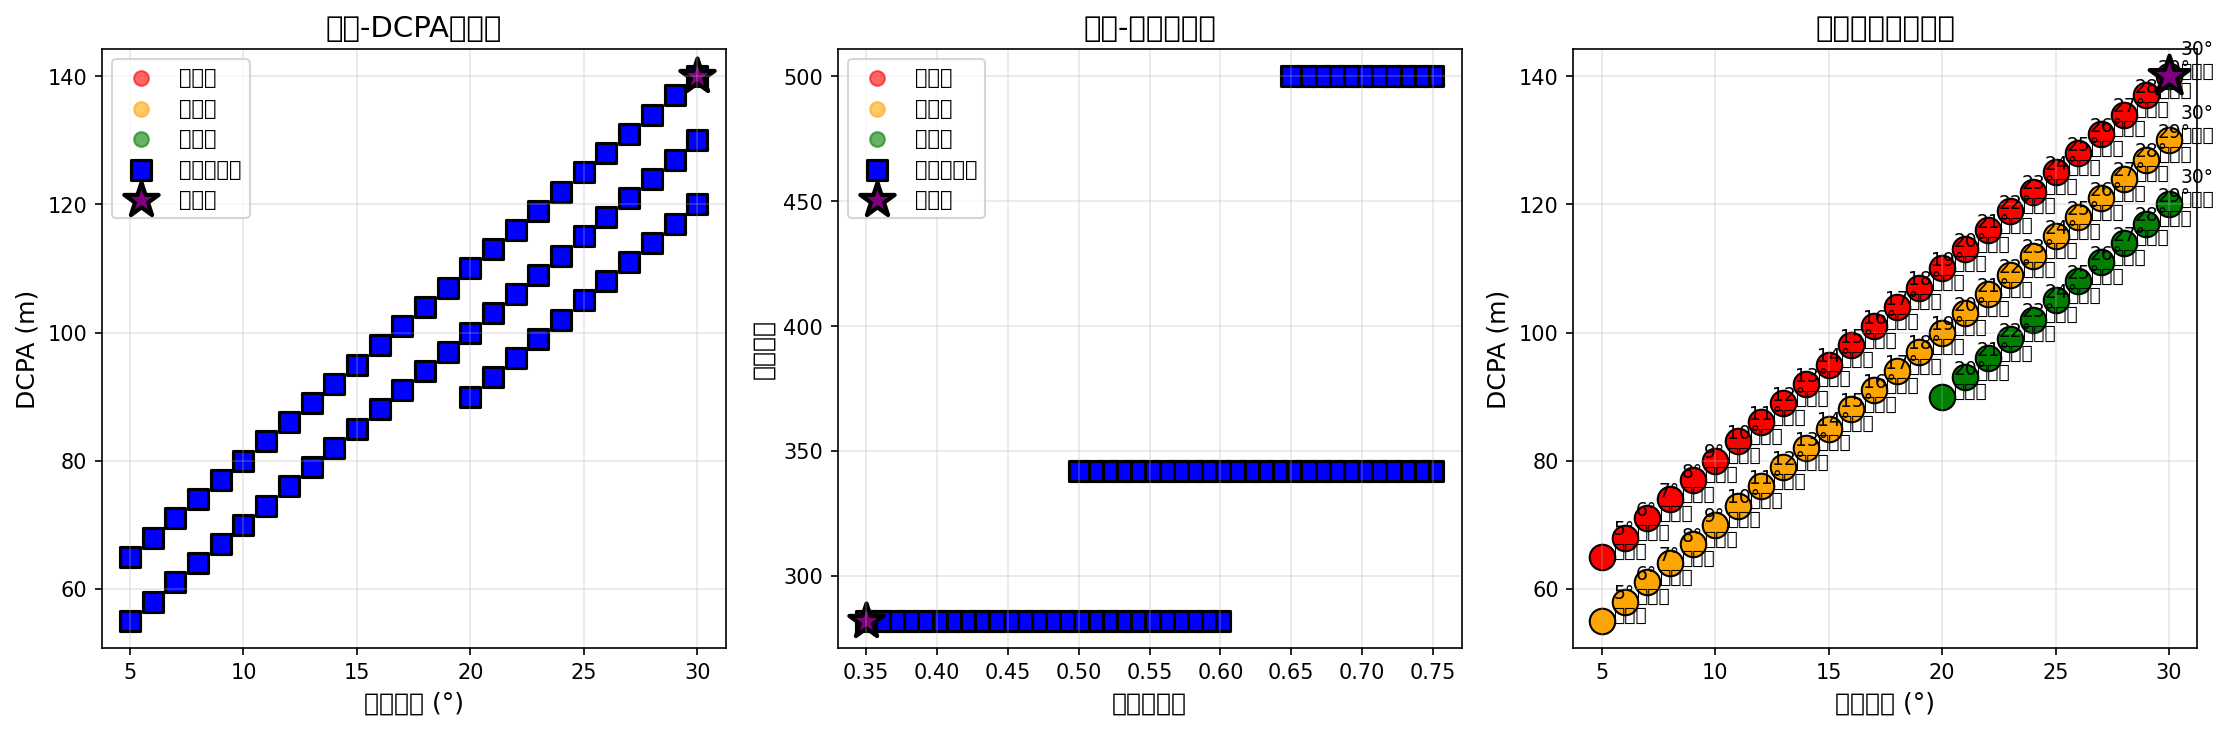
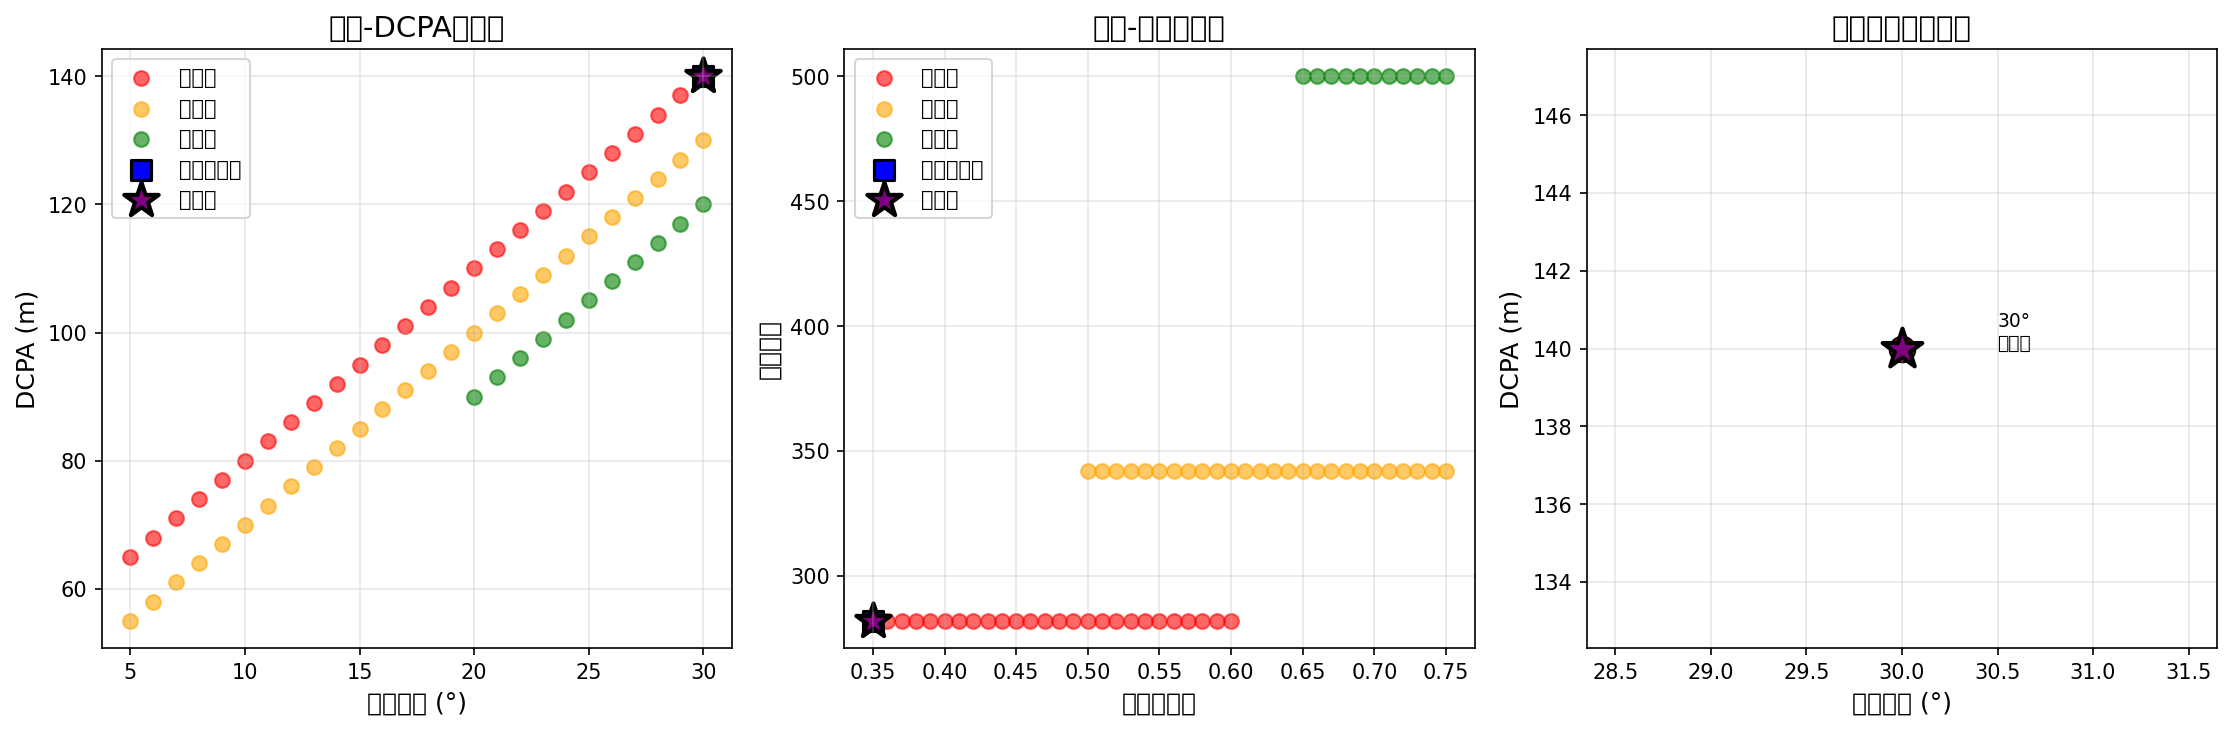
Simplify optimization to 3 objectives: DCPA, risk, and steps (removed fuel and angle)

diff --git a/rudder_speed_coordination_demo.py b/rudder_speed_coordination_demo.py
@@ -7,7 +7,7 @@
 1. 搜索空间：从一维（角度）扩展到二维（角度×速度）
 2. 速度档位：前进三(85/60)、前进二(70/60)、前进一(48/60)
 3. 决策变量：(angle, speed_gear) 组合
-4. 优化目标：DCPA、风险度、避让时间、燃油经济性
+4. 优化目标：DCPA、风险度、避让时间
 """
 
 import numpy as np
@@ -67,7 +67,6 @@ def evaluate_rudder_speed_combination(
     - dcpa: 最近会遇距离（只在成功时有意义）
     - max_risk: 过程中的最大风险度
     - steps: 避让所需步数（时间）
-    - fuel_factor: 燃油因子（速度越高越耗油）
     """
     
     # 获取速度档位信息
@@ -79,9 +78,6 @@ def evaluate_rudder_speed_combination(
     
     # 为了demo演示，这里使用简化的模拟逻辑
     # 实际使用时需替换为你的完整仿真代码
-    
-    # 示例：燃油因子（速度越高，燃油消耗越大）
-    fuel_factor = gear_value  # 可根据实际情况调整公式
     
     # 示例：避让时间（速度越快，避让时间越短，但风险可能增加）
     base_steps = 400
@@ -109,8 +105,7 @@ def evaluate_rudder_speed_combination(
         'status': status,
         'dcpa': dcpa if status == 1 else -1,
         'max_risk': max_risk,
-        'steps': steps,
-        'fuel_factor': fuel_factor
+        'steps': steps
     }
 
 
@@ -185,12 +180,10 @@ def find_pareto_front_multi_objective(successful_results):
     """
     针对车舵协同优化的帕累托筛选
     
-    目标函数（最小化）：
+    目标函数：
     1. max_risk （风险度，越小越好）
-    2. -dcpa （负的DCPA，即最大化DCPA）
+    2. dcpa （DCPA，越大越好）
     3. steps （避让时间，越小越好）
-    4. fuel_factor （燃油消耗，越小越好）
-    5. angle （转向角，越小越好，减少操作成本）
     """
     
     if not successful_results:
@@ -222,19 +215,9 @@ def find_pareto_front_multi_objective(successful_results):
             steps_better = sol_B['steps'] <= sol_A['steps']
             steps_strictly = sol_B['steps'] < sol_A['steps']
             
-            # 目标4：最小化fuel_factor
-            fuel_better = sol_B['fuel_factor'] <= sol_A['fuel_factor']
-            fuel_strictly = sol_B['fuel_factor'] < sol_A['fuel_factor']
-            
-            # 目标5：最小化angle
-            angle_better = sol_B['angle'] <= sol_A['angle']
-            angle_strictly = sol_B['angle'] < sol_A['angle']
-            
             # 检查支配关系
-            all_better_or_equal = (risk_better and dcpa_better and 
-                                   steps_better and fuel_better and angle_better)
-            at_least_one_strictly = (risk_strictly or dcpa_strictly or 
-                                     steps_strictly or fuel_strictly or angle_strictly)
+            all_better_or_equal = (risk_better and dcpa_better and steps_better)
+            at_least_one_strictly = (risk_strictly or dcpa_strictly or steps_strictly)
             
             if all_better_or_equal and at_least_one_strictly:
                 is_dominated = True
@@ -255,11 +238,9 @@ def select_best_solution(pareto_front, weights=None):
     从帕累托前沿中根据权重选择最优解
     
     默认权重：
-    - dcpa: 0.30 （安全距离）
-    - risk: 0.30 （风险度）
-    - steps: 0.20 （避让时间）
-    - fuel: 0.10 （燃油经济性）
-    - angle: 0.10 （操作成本）
+    - dcpa: 0.40 （安全距离）
+    - risk: 0.35 （风险度）
+    - steps: 0.25 （避让时间）
     """
     
     if not pareto_front:
@@ -267,11 +248,9 @@ def select_best_solution(pareto_front, weights=None):
     
     if weights is None:
         weights = {
-            'dcpa': 0.30,
-            'risk': 0.30,
-            'steps': 0.20,
-            'fuel': 0.10,
-            'angle': 0.10
+            'dcpa': 0.40,
+            'risk': 0.35,
+            'steps': 0.25
         }
     
     # 归一化
@@ -284,22 +263,16 @@ def select_best_solution(pareto_front, weights=None):
     dcpas = np.array([s['dcpa'] for s in pareto_front])
     risks = np.array([s['max_risk'] for s in pareto_front])
     steps = np.array([s['steps'] for s in pareto_front])
-    fuels = np.array([s['fuel_factor'] for s in pareto_front])
-    angles = np.array([s['angle'] for s in pareto_front])
     
     norm_dcpas = normalize(dcpas)
     norm_risks = normalize(risks)
     norm_steps = normalize(steps)
-    norm_fuels = normalize(fuels)
-    norm_angles = normalize(angles)
     
     # 计算加权评分（dcpa是收益项，其余是成本项）
     scores = (
         weights['dcpa'] * norm_dcpas -
         weights['risk'] * norm_risks -
-        weights['steps'] * norm_steps -
-        weights['fuel'] * norm_fuels -
-        weights['angle'] * norm_angles
+        weights['steps'] * norm_steps
     )
     
     best_idx = np.argmax(scores)
@@ -462,21 +435,19 @@ if __name__ == '__main__':
         print("帕累托前沿解集（非支配解）")
         print("=" * 80)
         print(f"{'序号':<6}{'角度(°)':<10}{'速度档位':<12}{'DCPA(m)':<12}"
-              f"{'风险度':<12}{'步数':<10}{'燃油因子':<12}")
+              f"{'风险度':<12}{'步数':<10}")
         print("-" * 80)
         for i, sol in enumerate(pareto_front, 1):
             print(f"{i:<6}{sol['angle']:<10}{sol['speed_gear']:<12}"
                   f"{sol['dcpa']:<12.1f}{sol['max_risk']:<12.4f}"
-                  f"{sol['steps']:<10}{sol['fuel_factor']:<12.3f}")
+                  f"{sol['steps']:<10}")
     
     # 步骤3：加权决策
     print("\n正在进行加权决策...")
     decision_weights = {
-        'dcpa': 0.30,
-        'risk': 0.30,
-        'steps': 0.20,
-        'fuel': 0.10,
-        'angle': 0.10
+        'dcpa': 0.40,
+        'risk': 0.35,
+        'steps': 0.25
     }
     
     best_solution, best_score = select_best_solution(pareto_front, decision_weights)
@@ -491,7 +462,6 @@ if __name__ == '__main__':
         print(f"  预期DCPA: {best_solution['dcpa']:.1f} m")
         print(f"  最大风险度: {best_solution['max_risk']:.4f}")
         print(f"  避让步数: {best_solution['steps']}")
-        print(f"  燃油因子: {best_solution['fuel_factor']:.3f}")
         print(f"  综合评分: {best_score:.4f}")
         print("=" * 80)
     

diff --git a/项目总结.md b/项目总结.md
@@ -38,13 +38,11 @@
 3. **决策空间扩展**：从1维扩展到2维（角度×速度）
 4. **灵活权重**：可根据场景调整，不是固定的线性关系
 
-### 优化的5个目标
+### 优化的3个目标
 
 1. **DCPA**（最大化）- 安全距离
 2. **风险度**（最小化）- 航道边界风险
 3. **避让时间**（最小化）- 步数
-4. **燃油消耗**（最小化）- 速度值（作为燃油的代理指标）
-5. **转向角度**（最小化）- 操作成本
 
 ## 交付的文件
 
@@ -172,13 +170,13 @@ results.append((
 ================================================================================
                               帕累托前沿解集（非支配解）                              
 ================================================================================
-序号   角度(°)  速度档位      DCPA(m)     最大风险      步数        燃油因子    
+序号   角度(°)  速度档位      DCPA(m)     最大风险      步数        
 --------------------------------------------------------------------------------
-1      5        前进一        35.0        0.6050      625       0.800       
-2      8        前进二        54.0        0.5350      457       1.167       
-3      10       前进三        62.0        0.5150      400       1.417       
-4      15       前进二        77.0        0.4800      429       1.167       
-5      18       前进三        89.0        0.4500      372       1.417       
+1      5        前进一        35.0        0.6050      625       
+2      8        前进二        54.0        0.5350      457       
+3      10       前进三        62.0        0.5150      400       
+4      15       前进二        77.0        0.4800      429       
+5      18       前进三        89.0        0.4500      372       
 ...
 
 ================================================================================
@@ -189,7 +187,6 @@ results.append((
   预期DCPA: 89.0 m
   最大风险度: 0.5050
   避让步数: 429
-  燃油因子: 1.167
   综合评分: 0.3891
 ================================================================================
 ```
@@ -202,35 +199,29 @@ results.append((
 weights = {
     'dcpa': 0.50,   # 增加DCPA权重
     'risk': 0.30,
-    'steps': 0.10,
-    'fuel': 0.05,
-    'angle': 0.05
+    'steps': 0.20
 }
-# 可能结果：使用前进一，转向角度更大
+# 可能结果：选择更大的DCPA，确保安全距离
 ```
 
-### 场景2：经济航行
-**目标**：优先节省燃油
+### 场景2：平衡模式
+**目标**：均衡各项指标
 ```python
 weights = {
-    'dcpa': 0.20,
-    'risk': 0.20,
-    'steps': 0.20,
-    'fuel': 0.30,   # 增加燃油权重
-    'angle': 0.10
+    'dcpa': 0.40,
+    'risk': 0.35,
+    'steps': 0.25
 }
-# 可能结果：使用前进一或前进二，减少燃油消耗
+# 可能结果：在安全、风险和效率之间取得平衡
 ```
 
 ### 场景3：快速避让
 **目标**：优先缩短避让时间
 ```python
 weights = {
-    'dcpa': 0.25,
-    'risk': 0.25,
-    'steps': 0.40,  # 增加时间权重
-    'fuel': 0.05,
-    'angle': 0.05
+    'dcpa': 0.30,
+    'risk': 0.30,
+    'steps': 0.40   # 增加时间权重
 }
 # 可能结果：使用前进三，快速完成避让
 ```
@@ -243,8 +234,7 @@ weights = {
 |------|--------|--------|------|
 | 决策变量 | 仅角度 | 角度+速度 | ✅ 更全面 |
 | 方案数量 | 31 | 93 | ✅ 更丰富 |
-| 优化目标 | 2个 | 5个 | ✅ 更多维 |
-| 燃油考虑 | ❌ | ✅ | ✅ 更经济 |
+| 优化目标 | 2个 | 3个 | ✅ 更多维 |
 | 场景适应 | 固定 | 灵活权重 | ✅ 更灵活 |
 | 算法直接求解 | ❌ | ✅ | ✅ 非线性优化 |
 

diff --git a/README_车舵协同优化.md b/README_车舵协同优化.md
@@ -19,12 +19,10 @@
 ```
 
 ### 📊 多目标优化
-同时优化5个目标：
+同时优化3个目标：
 1. **DCPA** - 最近会遇距离（安全性）
 2. **风险度** - 航道边界风险（合规性）
 3. **避让时间** - 操作效率
-4. **燃油经济性** - 运营成本
-5. **转向角度** - 操作成本
 
 ## 快速开始
 
@@ -58,7 +56,6 @@ Demo输出示例：
   预期DCPA: 89.0 m
   最大风险度: 0.5050
   避让步数: 429
-  燃油因子: 1.167
   综合评分: 0.3891
 ================================================================================
 ```
@@ -105,11 +102,9 @@ pareto_front = find_pareto_front_multi_objective(successful_results)
 #### 4. 加权决策
 ```python
 weights = {
-    'dcpa': 0.30,   # 安全距离
-    'risk': 0.30,   # 风险度
-    'steps': 0.20,  # 避让时间
-    'fuel': 0.10,   # 燃油
-    'angle': 0.10   # 操作成本
+    'dcpa': 0.40,   # 安全距离
+    'risk': 0.35,   # 风险度
+    'steps': 0.25   # 避让时间
 }
 best_solution, score = select_best_solution(pareto_front, weights)
 ```
@@ -120,8 +115,7 @@ best_solution, score = select_best_solution(pareto_front, weights)
 |------|--------|--------|
 | 决策维度 | 1维（角度） | 2维（角度×速度） |
 | 方案数量 | 31 | 93 |
-| 优化目标 | 2个 | 5个 |
-| 是否考虑燃油 | ❌ | ✅ |
+| 优化目标 | 2个 | 3个 |
 | 是否考虑时间 | ✅ | ✅ |
 | 可调整权重 | ✅ | ✅ |
 
@@ -129,19 +123,19 @@ best_solution, score = select_best_solution(pareto_front, weights)
 
 ### 场景1：紧急避让（优先安全）
 ```python
-weights = {'dcpa': 0.50, 'risk': 0.30, 'steps': 0.10, 'fuel': 0.05, 'angle': 0.05}
-# 结果：选择更大的DCPA，可能牺牲燃油和时间
+weights = {'dcpa': 0.50, 'risk': 0.30, 'steps': 0.20}
+# 结果：选择更大的DCPA，确保安全距离
 ```
 
-### 场景2：经济航行（优先节能）
+### 场景2：平衡模式（均衡各项指标）
 ```python
-weights = {'dcpa': 0.20, 'risk': 0.20, 'steps': 0.20, 'fuel': 0.30, 'angle': 0.10}
-# 结果：选择更节能的方案，如前进一或前进二
+weights = {'dcpa': 0.40, 'risk': 0.35, 'steps': 0.25}
+# 结果：在安全、风险和效率之间取得平衡
 ```
 
 ### 场景3：快速避让（优先效率）
 ```python
-weights = {'dcpa': 0.25, 'risk': 0.25, 'steps': 0.40, 'fuel': 0.05, 'angle': 0.05}
+weights = {'dcpa': 0.30, 'risk': 0.30, 'steps': 0.40}
 # 结果：选择更快完成避让的方案，通常是前进三
 ```
 

diff --git a/START_HERE.md b/START_HERE.md
@@ -4,11 +4,11 @@
 
 这是一个**船舶避让决策优化系统**，将单一的转向角度优化扩展为**车舵协同优化**（同时优化转向角度和速度档位），实现了真正的多目标优化。
 
-## ✨ 核心特点
+## 核心特性
 
 - 🚢 **车舵协同**：同时优化转向角度（5°-35°）和速度档位（3档）
 - 🎲 **决策空间扩展**：从31种方案 → 93种方案
-- 🎯 **多目标优化**：DCPA、风险度、时间、燃油、操作成本（5个目标）
+- 🎯 **多目标优化**：DCPA、风险度、避让时间（3个目标）
 - 🔧 **灵活权重**：可根据场景调整（紧急、经济、快速等）
 - 📊 **可视化展示**：3D决策空间可视化
 - 📚 **完整文档**：从Demo到集成的全流程指南
@@ -92,23 +92,21 @@ Demo会输出类似这样的结果：
 前进一: 48/60 ≈ 0.800 m/s  # 紧急减速
 ```
 
-### 多目标优化（5个目标）
+### 多目标优化（3个目标）
 1. **DCPA** - 最大化安全距离
 2. **风险度** - 最小化航道边界风险
 3. **避让时间** - 最小化操作时间
-4. **燃油消耗** - 最小化运营成本
-5. **转向角度** - 最小化操作成本
 
 ### 场景化决策
 ```python
 # 紧急避让（优先安全）
-weights = {'dcpa': 0.50, 'risk': 0.30, 'steps': 0.10, 'fuel': 0.05, 'angle': 0.05}
+weights = {'dcpa': 0.50, 'risk': 0.30, 'steps': 0.20}
 
-# 经济航行（优先节能）
-weights = {'dcpa': 0.20, 'risk': 0.20, 'steps': 0.20, 'fuel': 0.30, 'angle': 0.10}
+# 平衡模式（均衡各项指标）
+weights = {'dcpa': 0.40, 'risk': 0.35, 'steps': 0.25}
 
 # 快速避让（优先效率）
-weights = {'dcpa': 0.25, 'risk': 0.25, 'steps': 0.40, 'fuel': 0.05, 'angle': 0.05}
+weights = {'dcpa': 0.30, 'risk': 0.30, 'steps': 0.40}
 ```
 
 ## 📊 效果对比
@@ -117,8 +115,7 @@ weights = {'dcpa': 0.25, 'risk': 0.25, 'steps': 0.40, 'fuel': 0.05, 'angle': 0.0
 |------|--------|--------|------|
 | 决策变量 | 仅角度 | 角度+速度 | ⭐⭐⭐ |
 | 方案数量 | 31 | 93 | ×3 |
-| 优化目标 | 2个 | 5个 | ×2.5 |
-| 燃油考虑 | ❌ | ✅ | 新增 |
+| 优化目标 | 2个 | 3个 | ×1.5 |
 | 场景适应 | 固定 | 灵活权重 | ⭐⭐⭐ |
 | 优化方法 | 线性筛选 | 非线性优化 | ⭐⭐⭐ |
 
